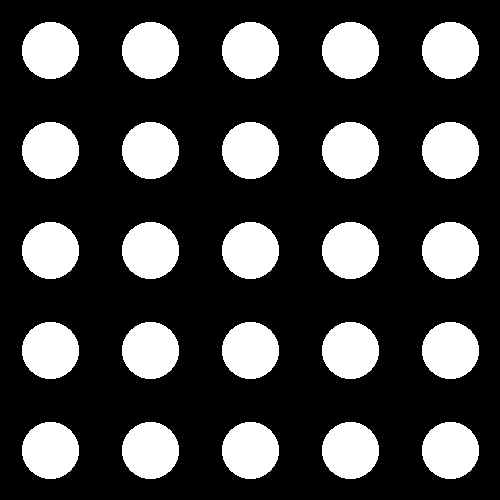
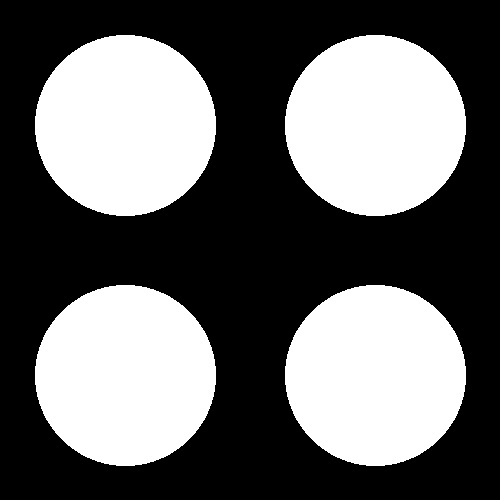
refactor: mover toggles de tensión/inspección al toolbar de Scene, agrupar draw en panel expandible
BrushPalette pasa a ser solo el panel de brush/draw (tamaño, modo,
noise), sin los botones de tensión/inspección. Esos dos toggles se
suben al toolbar superior de Scene junto con 1:1 y reset layout, en
una fila de 5 botones del mismo tamaño. El botón de lápiz (draw) abre
el panel de brush debajo del toolbar en vez de flotar fijo a la
derecha de la pantalla.

Actualiza también init_dots.jpg (imagen de referencia usada por
inject.src en los configs).

diff --git a/frontend/src/components/Scene.tsx b/frontend/src/components/Scene.tsx
@@ -89,6 +89,7 @@ export function Scene({
   const [oneToOne, setOneToOne] = useState(false);
   const [boxes, setBoxes] = useState<Boxes>({});
   const [layoutKey, setLayoutKey] = useState(0);
+  const [drawOpen, setDrawOpen] = useState(false);
 
   // Info panel position (draggable, independent of boxes state)
   const [infoPanelPos, setInfoPanelPos] = useState<{ x: number; y: number } | null>(null);
@@ -377,17 +378,76 @@ export function Scene({
       </svg>
 
       {/* ── Scene toolbar ── */}
-      <div style={{ position: "absolute", top: 8, left: 8, display: "flex", gap: 6, zIndex: 30 }}>
-        <button onClick={toggleOneToOne} title="Toggle 1:1 scale" style={{
-          padding: "3px 9px", background: oneToOne ? "#4cc9f0" : "#14142a",
-          border: `1px solid ${oneToOne ? "#4cc9f0" : "#2a2a3e"}`, borderRadius: 4,
-          color: oneToOne ? "#0a0a0a" : "#555", fontSize: "0.62rem", fontFamily: "monospace",
-          fontWeight: 600, cursor: "pointer", letterSpacing: "0.05em", transition: "all 0.15s",
-        }}>1:1</button>
-        <button onClick={resetLayout} title="Reset layout" style={{
-          padding: "3px 8px", background: "#14142a", border: "1px solid #2a2a3e",
-          borderRadius: 4, color: "#444", fontSize: "0.75rem", cursor: "pointer", transition: "all 0.15s",
-        }}>↺</button>
+      <div style={{ position: "absolute", top: 8, left: 8, display: "flex", flexDirection: "column", gap: 4, zIndex: 30 }}>
+        {/* Single row: all 5 tool buttons equal-sized */}
+        <div style={{ display: "flex", gap: 4 }}>
+          <button onClick={toggleOneToOne} title="Toggle 1:1 scale" style={{
+            width: 32, height: 32, display: "flex", alignItems: "center", justifyContent: "center",
+            background: oneToOne ? "#4cc9f0" : "#1a1a2e",
+            color: oneToOne ? "#0a0a0f" : "#555",
+            border: oneToOne ? "2px solid #4cc9f0" : "1px solid #2a2a3e",
+            borderRadius: 6, cursor: "pointer", fontSize: "0.6rem", fontFamily: "monospace",
+            fontWeight: 700, padding: 0, letterSpacing: "0.05em", transition: "all 0.15s",
+          }}>1:1</button>
+          <button onClick={resetLayout} title="Reset layout" style={{
+            width: 32, height: 32, display: "flex", alignItems: "center", justifyContent: "center",
+            background: "#1a1a2e", color: "#555",
+            border: "1px solid #2a2a3e",
+            borderRadius: 6, cursor: "pointer", fontSize: 15, fontWeight: 700, padding: 0, transition: "all 0.15s",
+          }}>↺</button>
+          <button
+            onClick={onToggleTension}
+            title={tensionMode ? "Hide tensions" : "View surface tensions"}
+            aria-label="View tensions"
+            style={{
+              width: 32, height: 32, display: "flex", alignItems: "center", justifyContent: "center",
+              background: tensionMode ? "#ff6b35" : "#1a1a2e",
+              color: tensionMode ? "#0a0a0f" : "#666",
+              border: tensionMode ? "2px solid #ff6b35" : "1px solid #2a2a3e",
+              borderRadius: 6, cursor: "pointer", fontSize: 15, fontWeight: 700, padding: 0, transition: "all 0.15s",
+            }}
+          >≋</button>
+          <button
+            onClick={onToggleInspect}
+            disabled={!canInspect && !inspectMode}
+            title="Inspect connections"
+            aria-label={inspectMode ? "Brush tool" : "Inspect tool"}
+            style={{
+              width: 32, height: 32, display: "flex", alignItems: "center", justifyContent: "center",
+              background: inspectMode ? "#ffff00" : "#1a1a2e",
+              color: inspectMode ? "#0a0a0f" : "#666",
+              border: inspectMode ? "2px solid #ffff00" : "1px solid #2a2a3e",
+              borderRadius: 6, cursor: canInspect || inspectMode ? "pointer" : "not-allowed",
+              fontSize: 15, fontWeight: 700, padding: 0, transition: "all 0.15s",
+            }}
+          >⊙</button>
+          <button
+            onClick={() => setDrawOpen(o => !o)}
+            title={drawOpen ? "Close draw palette" : "Open draw palette"}
+            aria-label="Draw tool"
+            style={{
+              width: 32, height: 32, display: "flex", alignItems: "center", justifyContent: "center",
+              background: drawOpen ? "#4cc9f0" : "#1a1a2e",
+              color: drawOpen ? "#0a0a0f" : "#666",
+              border: drawOpen ? "2px solid #4cc9f0" : "1px solid #2a2a3e",
+              borderRadius: 6, cursor: "pointer", fontSize: 15, fontWeight: 700, padding: 0, transition: "all 0.15s",
+            }}
+          >✏</button>
+        </div>
+
+        {/* Draw palette: expands below when draw is active */}
+        {drawOpen && (
+          <BrushPalette
+            brushSize={brushSize}
+            brushMode={brushMode}
+            dimmed={inspectMode}
+            onIncrease={onIncrease}
+            onDecrease={onDecrease}
+            onToggleMode={onToggleMode}
+            drawNoise={drawNoise}
+            onDrawNoiseChange={onDrawNoiseChange}
+          />
+        )}
       </div>
 
       {/* ── Region boxes ── */}
@@ -596,23 +656,6 @@ export function Scene({
         </div>
       )}
 
-      {/* ── BrushPalette ── */}
-      <div style={{ position: "absolute", right: 8, top: "50%", transform: "translateY(-50%)", zIndex: 30 }}>
-        <BrushPalette
-          brushSize={brushSize}
-          brushMode={brushMode}
-          inspectMode={inspectMode}
-          tensionMode={tensionMode ?? false}
-          canInspect={canInspect}
-          onIncrease={onIncrease}
-          onDecrease={onDecrease}
-          onToggleMode={onToggleMode}
-          onToggleInspect={onToggleInspect}
-          onToggleTension={onToggleTension}
-          drawNoise={drawNoise}
-          onDrawNoiseChange={onDrawNoiseChange}
-        />
-      </div>
 
       {/* ── Initializing overlay ── */}
       {isInitializing && (

diff --git a/frontend/src/components/BrushPalette.tsx b/frontend/src/components/BrushPalette.tsx
@@ -1,18 +1,14 @@
-/** Toolbar — floating vertical toolbar with tool selection + brush controls. */
+/** Draw palette — brush size controls and mode toggle, expanded from the draw button. */
 
 import { generateCircleBrush, MIN_BRUSH_SIZE, MAX_BRUSH_SIZE } from "../brushes";
 
 interface BrushPaletteProps {
   brushSize: number;
   brushMode: "activate" | "deactivate";
-  inspectMode: boolean;
-  tensionMode: boolean;
-  canInspect: boolean;
+  dimmed?: boolean;
   onIncrease: () => void;
   onDecrease: () => void;
   onToggleMode: () => void;
-  onToggleInspect: () => void;
-  onToggleTension: () => void;
   drawNoise?: number;
   onDrawNoiseChange?: (v: number) => void;
 }
@@ -53,52 +49,25 @@ function renderBrushPreview(size: number): React.ReactNode {
   );
 }
 
-const toolBtnStyle = (
-  active: boolean,
-  color: string,
-): React.CSSProperties => ({
-  width: 36,
-  height: 30,
-  display: "flex",
-  alignItems: "center",
-  justifyContent: "center",
-  background: active ? color : "#1a1a2e",
-  color: active ? "#0a0a0f" : "#666",
-  border: active ? `2px solid ${color}` : "1px solid #2a2a3e",
-  borderRadius: 6,
-  cursor: "pointer",
-  fontSize: 15,
-  fontWeight: 700,
-  padding: 0,
-  transition: "all 0.15s",
-});
-
 export function BrushPalette({
   brushSize,
   brushMode,
-  inspectMode,
-  tensionMode,
-  canInspect,
+  dimmed = false,
   onIncrease,
   onDecrease,
   onToggleMode,
-  onToggleInspect,
-  onToggleTension,
   drawNoise,
   onDrawNoiseChange,
 }: BrushPaletteProps) {
   const isActivate = brushMode === "activate";
   const pixelCount = generateCircleBrush(brushSize).length;
-  const canIncrease = !inspectMode && brushSize < MAX_BRUSH_SIZE;
-  const canDecrease = !inspectMode && brushSize > MIN_BRUSH_SIZE;
+  const canIncrease = !dimmed && brushSize < MAX_BRUSH_SIZE;
+  const canDecrease = !dimmed && brushSize > MIN_BRUSH_SIZE;
+
   return (
     <div
       data-testid="brush-palette"
       style={{
-        position: "absolute",
-        right: 8,
-        top: "50%",
-        transform: "translateY(-50%)",
         display: "flex",
         flexDirection: "column",
         alignItems: "center",
@@ -107,44 +76,11 @@ export function BrushPalette({
         border: "1px solid #2a2a3e",
         borderRadius: 8,
         padding: 6,
-        zIndex: 10,
+        opacity: dimmed ? 0.3 : 1,
+        pointerEvents: dimmed ? "none" : "auto",
+        transition: "opacity 0.15s",
       }}
     >
-      <button
-        onClick={onToggleTension}
-        title={tensionMode ? "Hide tensions" : "View surface tensions"}
-        aria-label="View tensions"
-        style={{
-          ...toolBtnStyle(tensionMode, "#ff6b35"),
-          width: "100%",
-          cursor: "pointer",
-        }}
-      >
-        ≋
-      </button>
-
-      <button
-        onClick={onToggleInspect}
-        disabled={!canInspect && !inspectMode}
-        title="Inspect connections"
-        aria-label={inspectMode ? "Brush tool" : "Inspect tool"}
-        style={{
-          ...toolBtnStyle(inspectMode, "#ffff00"),
-          width: "100%",
-          cursor: canInspect || inspectMode ? "pointer" : "not-allowed",
-        }}
-      >
-        ⊙
-      </button>
-
-      <div
-        style={{
-          width: "100%",
-          height: 1,
-          background: "#2a2a3e",
-        }}
-      />
-
       <div
         data-testid="brush-controls"
         style={{
@@ -152,9 +88,6 @@ export function BrushPalette({
           flexDirection: "column",
           alignItems: "center",
           gap: 4,
-          opacity: inspectMode ? 0.3 : 1,
-          pointerEvents: inspectMode ? "none" : "auto",
-          transition: "opacity 0.15s",
         }}
       >
         <button
@@ -267,8 +200,6 @@ export function BrushPalette({
               flexDirection: "column",
               alignItems: "center",
               gap: 3,
-              opacity: inspectMode ? 0.3 : 1,
-              pointerEvents: inspectMode ? "none" : "auto",
             }}
           >
             <span style={{ fontSize: 9, color: "#8888aa", userSelect: "none" }}>noise</span>
